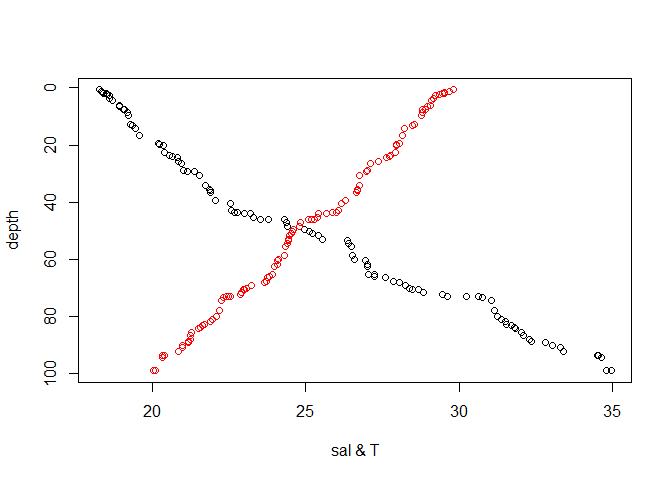
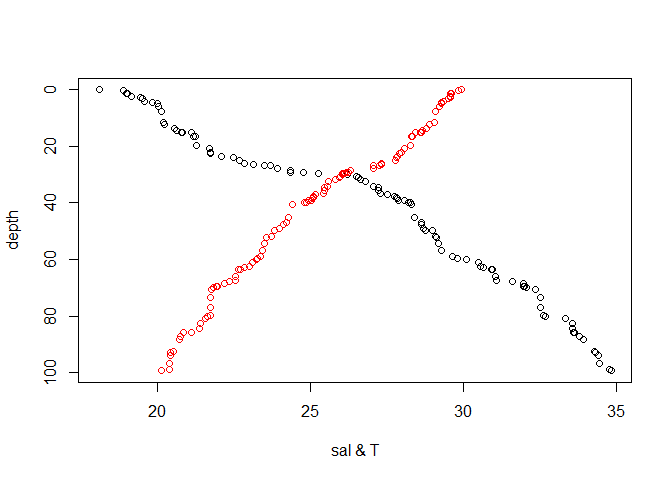
knit new

diff --git a/README.md b/README.md
@@ -39,14 +39,14 @@ head(cast)
 ```
 
           depth     temp      sal
-    1 0.6977031 29.80684 18.27234
-    2 1.1374422 29.70196 18.34154
-    3 1.4877293 29.53120 18.38017
-    4 1.9089965 29.52193 18.40428
-    5 2.0968131 29.46801 18.49492
-    6 2.1911099 29.37081 18.54929
+    1 0.0553685 29.95769 18.08900
+    2 0.3512025 29.83043 18.89326
+    3 1.2198783 29.63237 18.97185
+    4 1.3326132 29.59212 19.00996
+    5 2.3489631 29.57774 19.14497
+    6 2.7440120 29.57309 19.43075
 
-"original" dummy data plotted <img src="README_files/figure-markdown_github/plot original-1.png" style="display: block; margin: auto;" />
+<img src="README_files/figure-markdown_github/plot original-1.png" style="display: block; margin: auto;" />
 
 binning data
 
@@ -57,14 +57,14 @@ head(binned_cast)
 ```
 
       binned_depth     temp      sal
-    1            0 29.43433 18.48745
-    2           10 28.73204 19.17094
-    3           20 27.90210 20.35656
-    4           30 27.00409 21.23033
-    5           40 26.15561 22.45508
-    6           50 24.77459 24.82890
+    1            0 29.56109 19.24192
+    2           10 28.96220 20.29413
+    3           20 28.17320 21.56559
+    4           30 26.27630 25.32202
+    5           40 25.03282 27.83551
+    6           50 23.89911 28.83188
 
-plot binned data <img src="README_files/figure-markdown_github/plot bin-1.png" style="display: block; margin: auto;" />
+<img src="README_files/figure-markdown_github/plot bin-1.png" style="display: block; margin: auto;" />
 
 effects of arguments
 
@@ -78,9 +78,9 @@ head(binned_cast1)
 ```
 
       depth     temp      sal
-    1     0 29.80684 18.27234
-    2     2 29.49497 18.44960
-    3     4 29.13362 18.66780
-    4     6 29.02728 18.93920
-    5     8 28.80866 19.09064
-    6    10 28.77319 19.21685
+    1     0 29.89406 18.49113
+    2     2 29.58493 19.07747
+    3     4 29.32779 19.69047
+    4     6 29.21653 20.04516
+    5     8 29.10697 20.11345
+    6    12 28.98615 20.22012
